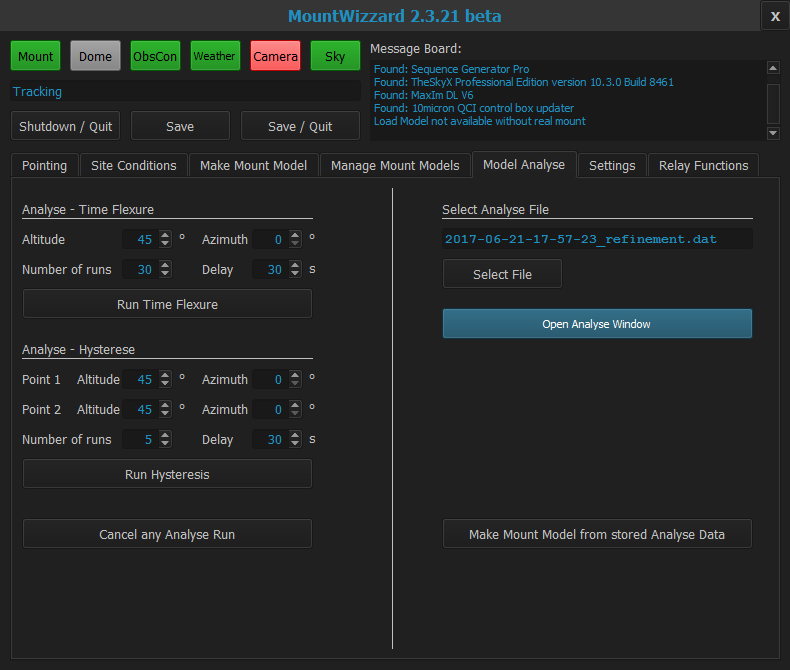
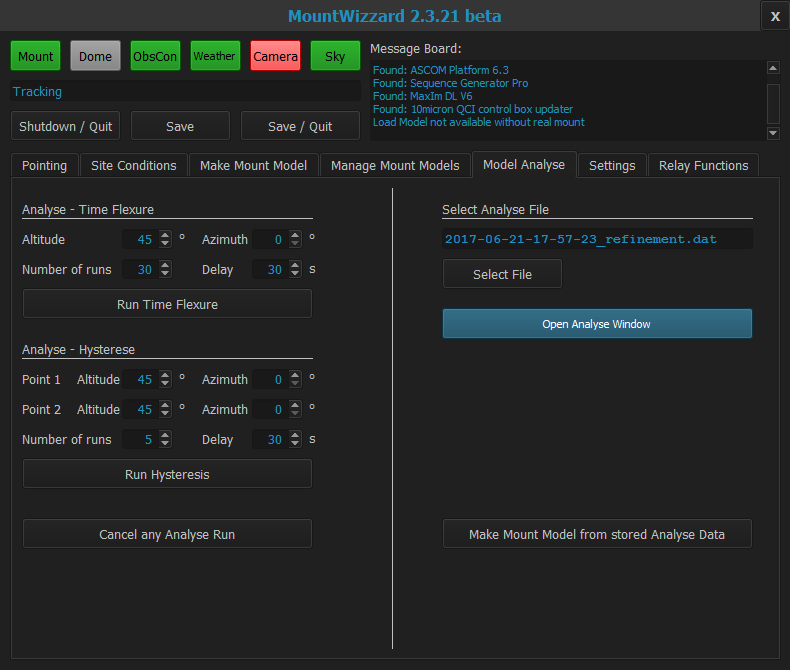
update documentation

Changed region(s): [[0.4557, 0.0896, 0.8506, 0.209]]

diff --git a/mountwizzard/support/camera_theskyx.py b/mountwizzard/support/camera_theskyx.py
@@ -19,6 +19,7 @@ class TheSkyX(MWCamera):
 
     def checkAppInstall(self):
         self.appAvailable, self.appName, self.appInstallPath = self.app.checkRegistrationKeys('TheSkyX')
+        self.appAvailable = False
         if self.appAvailable:
             self.app.messageQueue.put('Found: {0}'.format(self.appName))
             self.logger.debug('checkApplicatio-> Name: {0}, Path: {1}'.format(self.appName, self.appInstallPath))

diff --git a/mountwizzard/docu/overview.md b/mountwizzard/docu/overview.md
@@ -1,15 +1,26 @@
 ## Overview
 ### Main Screen
-Mountwizzard open of a set of windows depending on the use case you would like to follow. First, there is the main screen:
+
+MountWizzard opens of a set of windows depending on the use case you would like to follow. The main windows opens when started,
+the other windows could be opened when haven the right use case. E.g. Modeling Plot Window could be opened from
+["Make Mount Model"](firststeps3.md) Menue, the Analyse Window could be opened from ["Model Analyse"](firststeps5.md). MountWizzard
+saves the status of the windows. So once opened, after the next start windows will automatically opened accordingly. MountWizzard
+stores the positions of the windows as well.
+
+There is one topic to take care of: the gui can't react on different DPI resolution settings in windows environment. Please keep them
+to 100% as default, otherwise length of texts etc. might not fit in the surrounding boxes. Sorry for that, but it's a bunch of work
+to make this happen, and there is roughly any strong request for it.
+
+First, there is the main screen:
 
 <img src="../pics/mainscreen.png"/>
 
-### Modeling Screen
+### Modeling Plot Window
 Mountwizzard can show th so called "Modeling Plot Window" where you can follow and manage in detail the modeling process:
 
 <img src="../pics/modelingplotwindow.png"/>
 
-### Analyse screen
+### Analyse Window
 After modeling you can do some analytics of your model runs. This is mainly located in the "Analyse" window:
 
 <img src="../pics/analysewindow.png"/>

diff --git a/mountwizzard/docu/home.md b/mountwizzard/docu/home.md
@@ -17,7 +17,7 @@ To get a first impression after start, please have a look to the [main screens a
 ### First Steps
 [First steps in MountWizzard](firststeps.md) are explained here. And the link to [How to model](firststeps3.md) for the quick ones.
 ### Setting up MountWizzard
-All necessary [configuration of MountWizzard](installation.md) are explained.
+All necessary [configuration of MountWizzard](settings.md) are explained.
 ### Workflow of MountWizzard for modeling:
 A first good view of the modeling workflow is shown in the [Modeling Workflow Chart](modeling_workflow.md)
 
